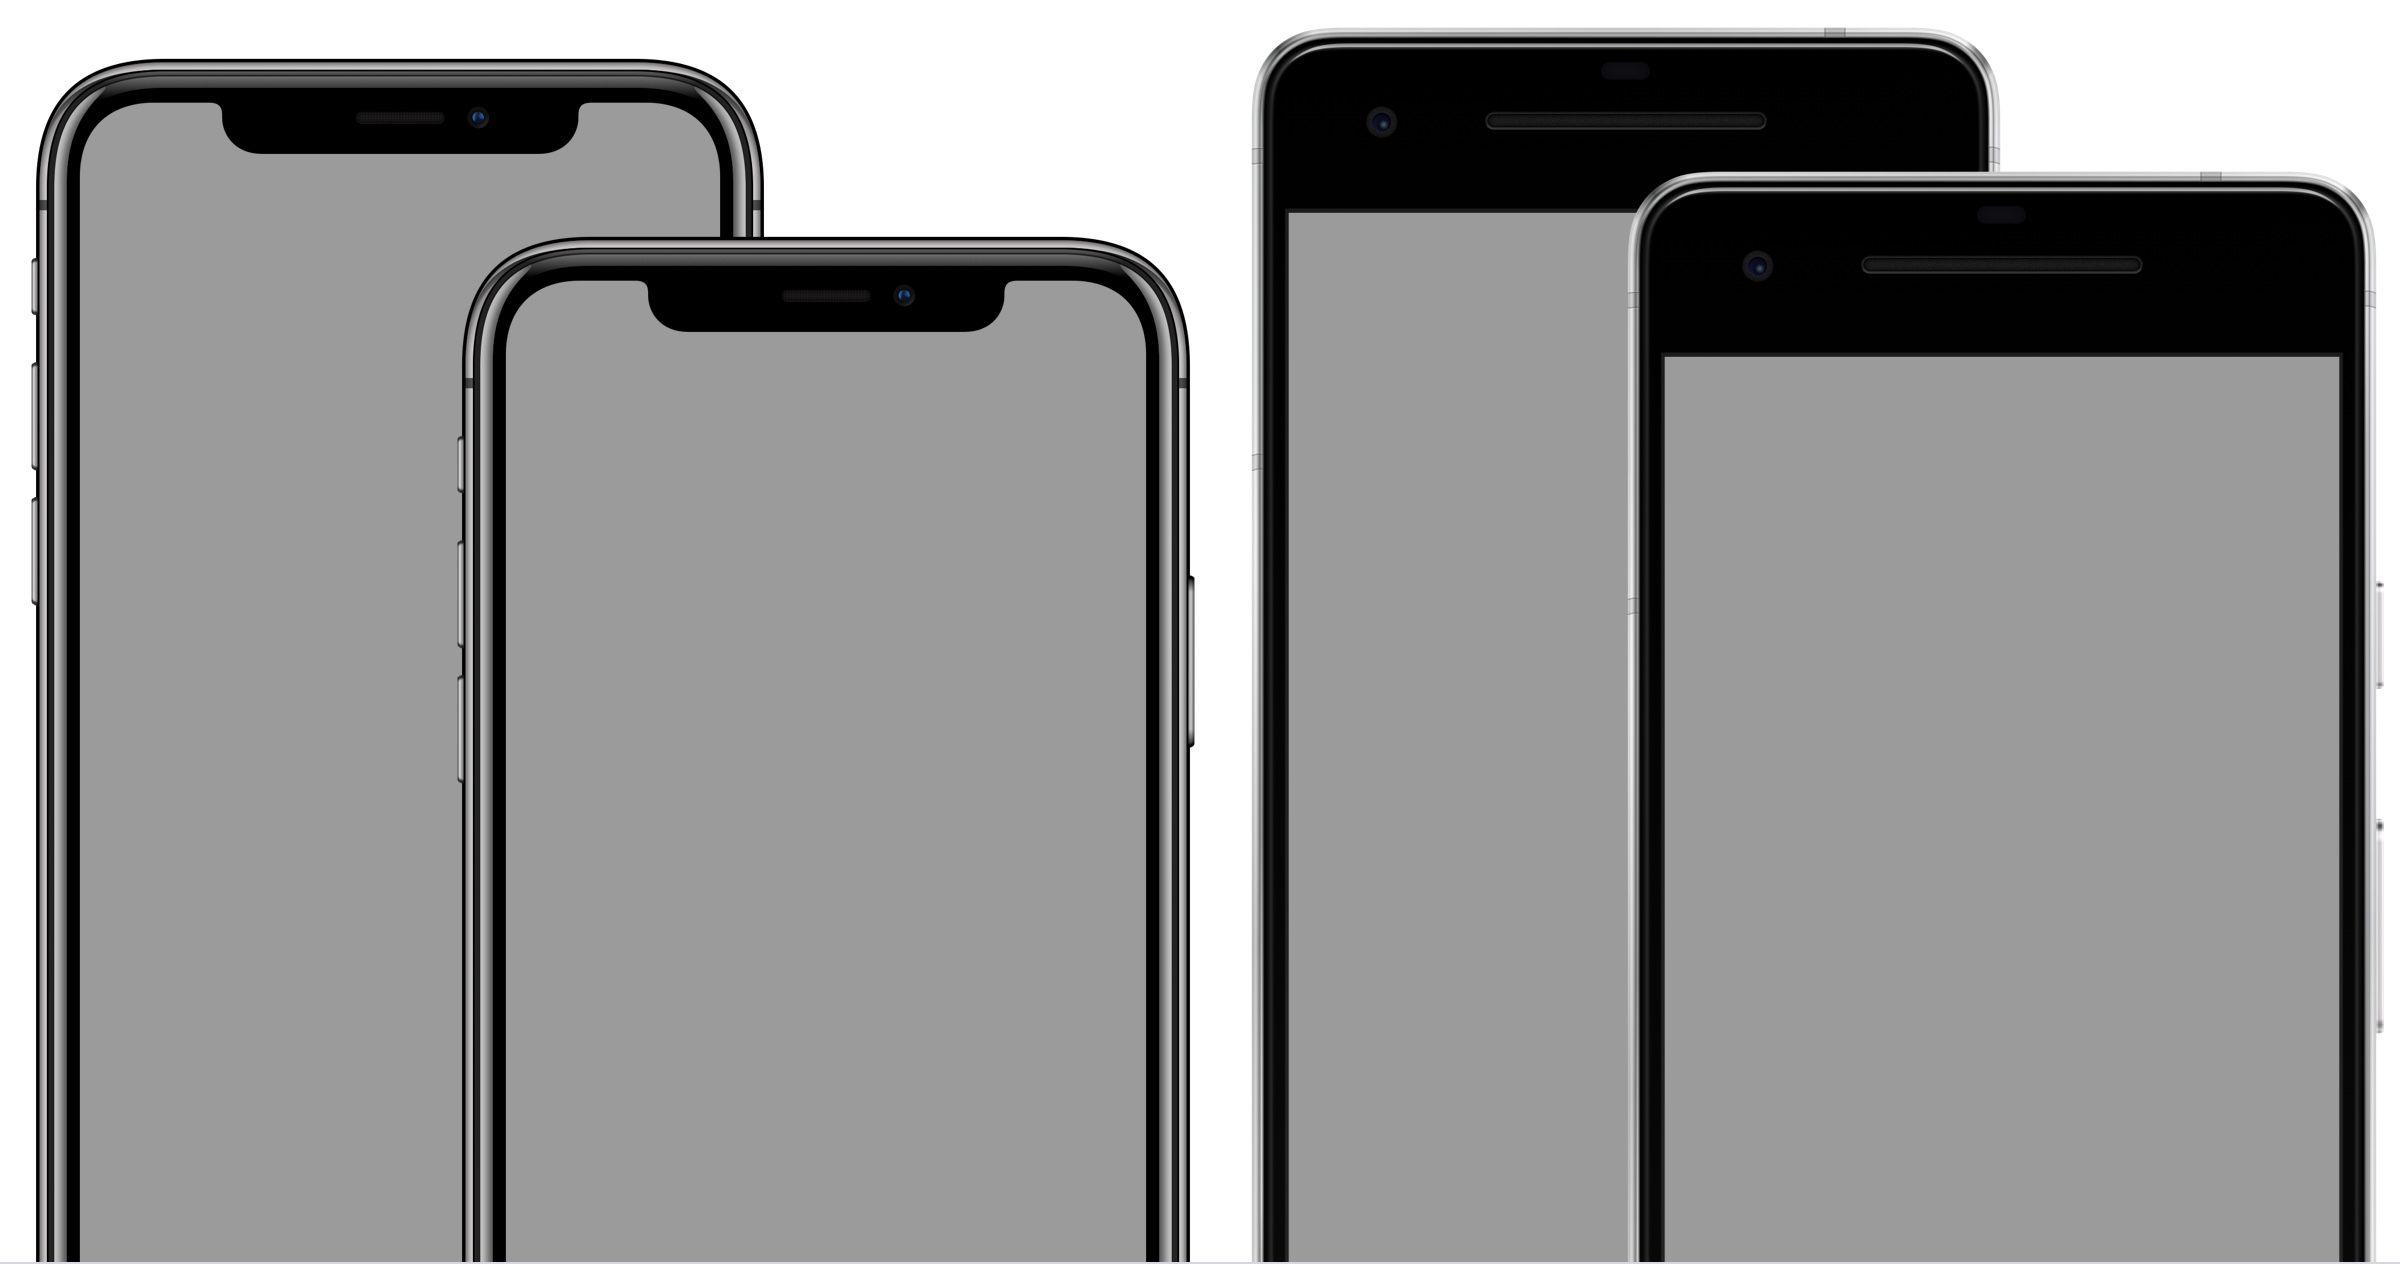
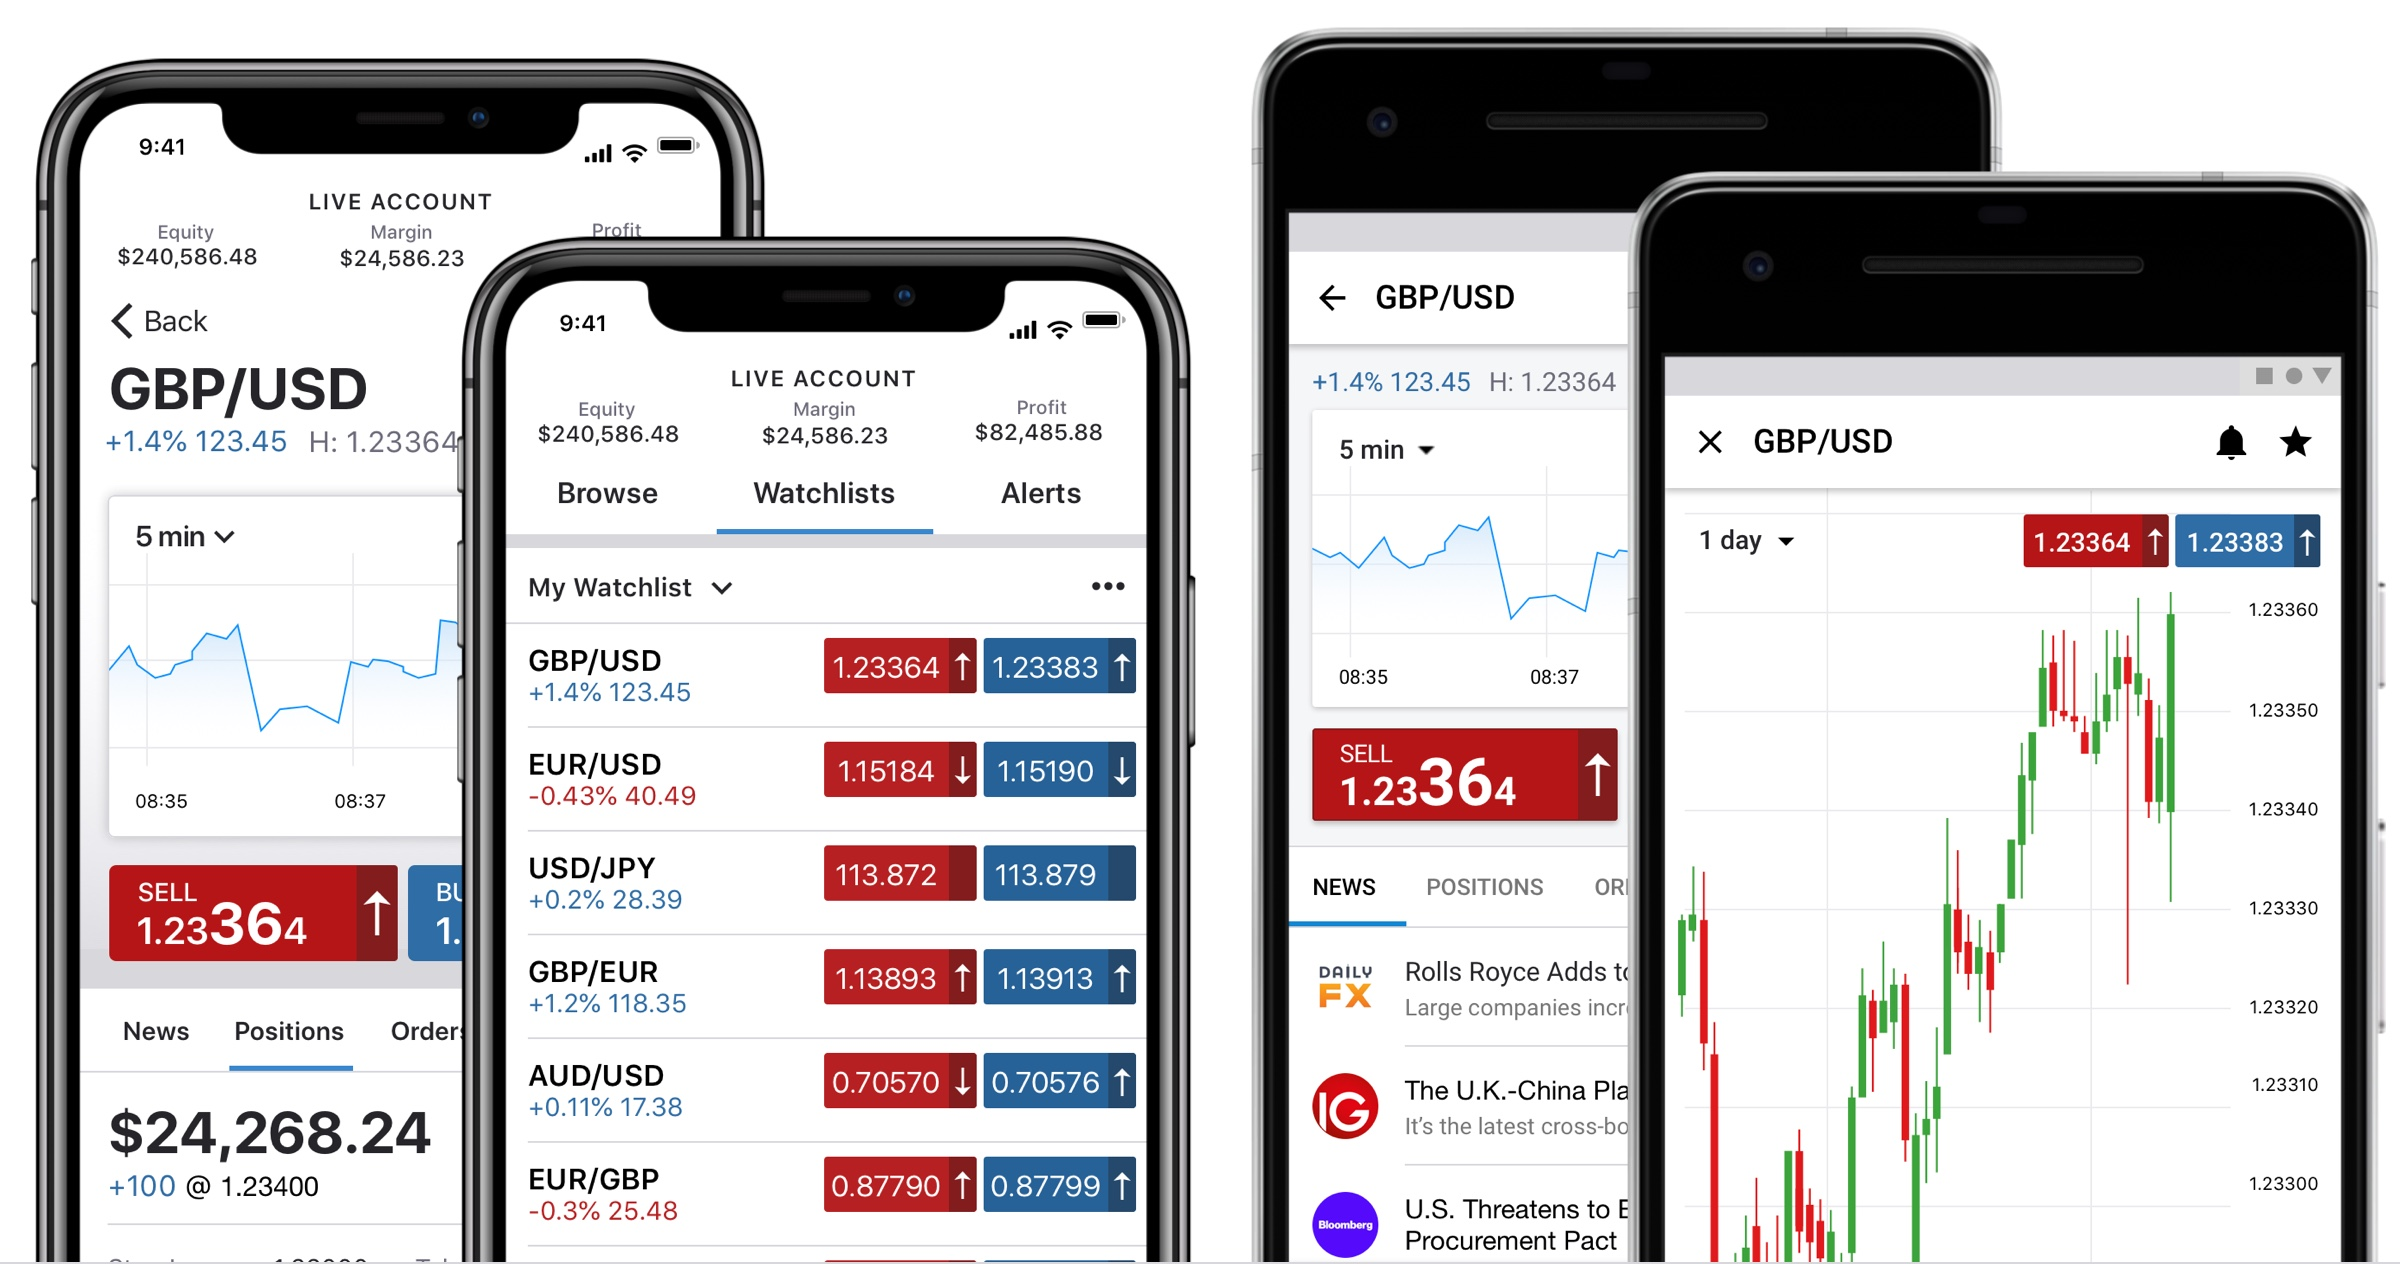
added fx image

diff --git a/src/pages/case_study_forex_trading.js b/src/pages/case_study_forex_trading.js
@@ -277,6 +277,12 @@ export default () => (
             IG's aspiration to build category-defining apps.
           </p>
         </section>
+        <img
+          src={require("../images/caseStudies/caseStudy_forexTrading_overview.jpg")}
+          alt="Placeholder"
+          className={styles.caseStudy_MediumImage}
+        />
+
         <Author />
       </article>
     </div>
